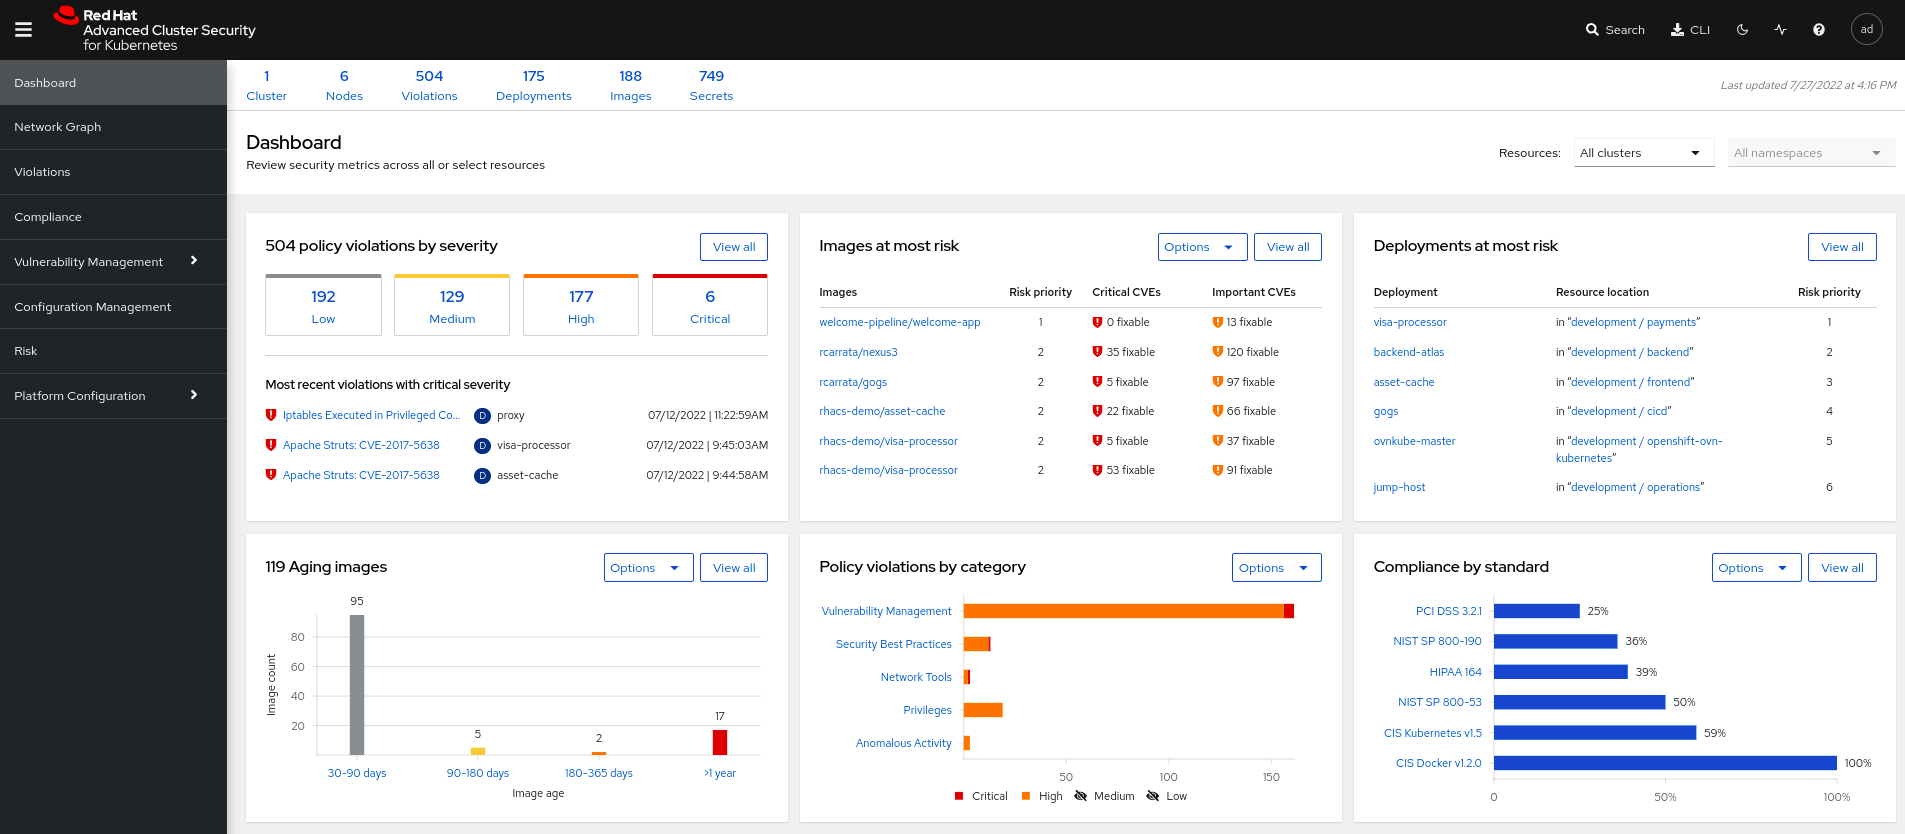
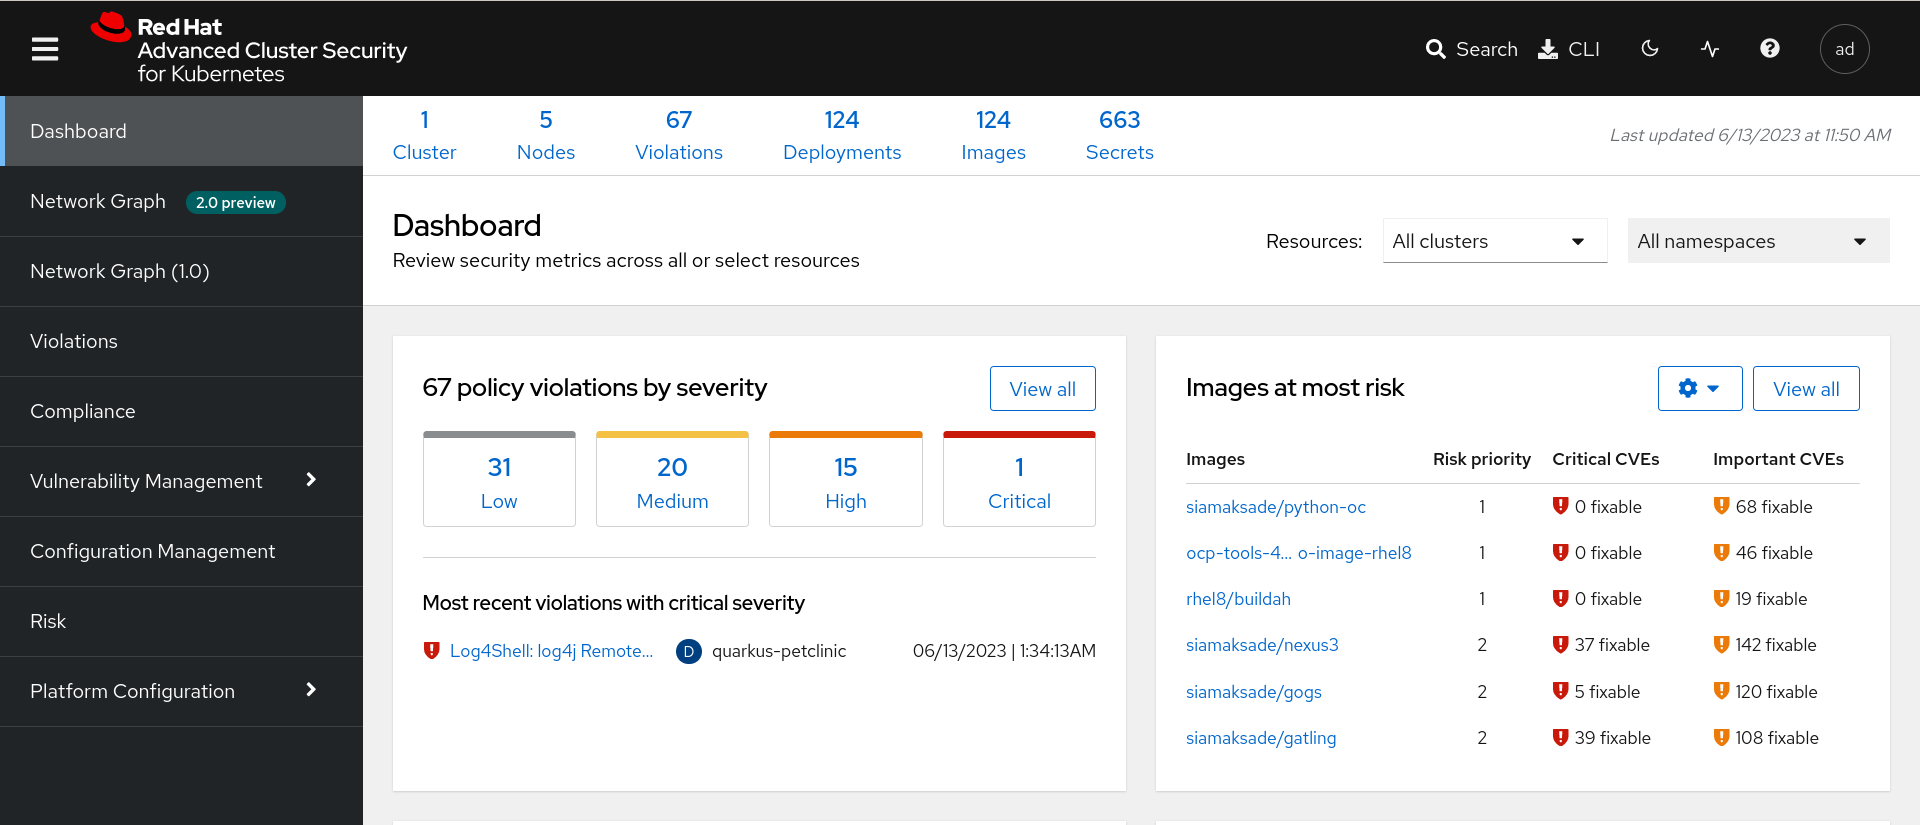
[CI] Publish Documentation for e95b6b3be77698b51602c7de66b5b9404a9a4796 - e95b6b3be77698b51602c7de66b5b9404a9a4796 🚀

diff --git a/acs-workshop/03-overview-acs.html b/acs-workshop/03-overview-acs.html
@@ -495,6 +495,18 @@ Scanner only scans those images that are not already scanned by other integrated
 <img src="_images/dashboard/acs_dashboard_menu.png" alt="ACS Dashboard" width="150">
 </div>
 </div>
+<div class="admonitionblock note">
+<table>
+<tr>
+<td class="icon">
+<i class="fa icon-note" title="Note"></i>
+</td>
+<td class="content">
+<strong>Network Graph (1.0)</strong> will be deprecated and will be replaced by the <strong>Network Graph 2.0</strong> version which is included as a <a href="https://access.redhat.com/support/offerings/techpreview">Technology Preview</a>.
+</td>
+</tr>
+</table>
+</div>
 <div class="paragraph">
 <p>In the left part of the dashboard we can see the different sections we can access in RHACS to gather information about the security in the clusters we have configured in RHACS.</p>
 </div>
